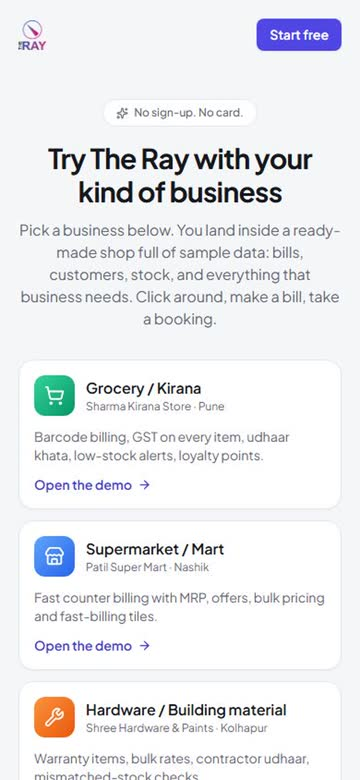
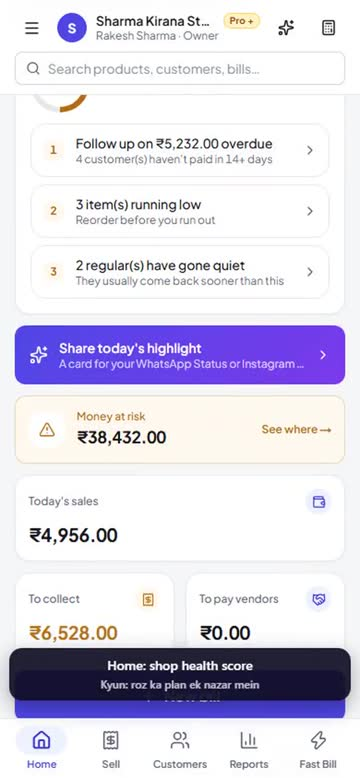
Demo tour video: a home-screen poster and a shorter player so the business cards stay close

diff --git a/app/components/VideoPlayer.tsx b/app/components/VideoPlayer.tsx
@@ -30,6 +30,7 @@ export function VideoPlayer({
   words,
   lite = false,
   showTopics = true,
+  maxVh = 75,
 }: {
   src: string;
   poster: string;
@@ -42,6 +43,8 @@ export function VideoPlayer({
   words: Words;
   lite?: boolean;
   showTopics?: boolean;
+  /** Tallest the video may be, in % of the screen height. */
+  maxVh?: number;
 }) {
   const video = useRef<HTMLVideoElement>(null);
   const frame = useRef<HTMLIFrameElement>(null);
@@ -101,7 +104,7 @@ export function VideoPlayer({
 
   return (
     <div className="flex flex-col gap-3">
-      <div className="mx-auto w-full" style={{ maxWidth: `calc(75vh * ${VIDEO_ASPECT})` }}>
+      <div className="mx-auto w-full" style={{ maxWidth: `calc(${maxVh}vh * ${VIDEO_ASPECT})` }}>
         <div className="relative w-full overflow-hidden rounded-xl bg-black" style={{ aspectRatio: VIDEO_ASPECT }}>
           {!on ? (
             <button type="button" onClick={() => setOn(true)} className="group absolute inset-0 h-full w-full" aria-label={words.play ?? "Play"}>

diff --git a/app/demo/page.tsx b/app/demo/page.tsx
@@ -46,6 +46,7 @@ export default async function DemoPage() {
           <VideoPlayer
             lite
             showTopics={false}
+            maxVh={58}
             src={tourFiles.mp4}
             poster={tourFiles.poster}
             vtt={tourFiles.vtt}
